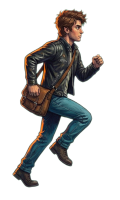
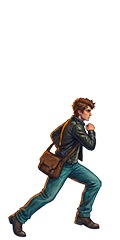
sprite player

diff --git a/globalGameJam/src/main/java/it/gamejam/truncate/bubblenap/ui/img/ImageLoader.java b/globalGameJam/src/main/java/it/gamejam/truncate/bubblenap/ui/img/ImageLoader.java
@@ -39,12 +39,12 @@ public class ImageLoader {
 	private static Image mummyHead;
 	private static Image baseHead;
 
-	private static Image[] player;
-	private static Image[] playerMummy;
-	private static Image[] playerVampire;
-	private static Image[] playerWerewolf;
-	private static Image[] playerZombie;
-	private static Image[] playerBase;
+	private static BufferedImage[] player;
+	private static BufferedImage[] playerMummy;
+	private static BufferedImage[] playerVampire;
+	private static BufferedImage[] playerWerewolf;
+	private static BufferedImage[] playerZombie;
+	private static BufferedImage[] playerBase;
 
 	private static Image[] garbage;
 	private static Image[] manhole;
@@ -105,17 +105,17 @@ public class ImageLoader {
 			vampireTaunting= ImageIO.read(Thread.currentThread().getContextClassLoader().getResource("img/game/enemies/taunting/vampire.png"));
 			mummyTaunting= ImageIO.read(Thread.currentThread().getContextClassLoader().getResource("img/game/enemies/taunting/mummy.png"));
 
-			playerMummy = new Image[FRAMES];
-			playerVampire = new Image[FRAMES];
-			playerWerewolf = new Image[FRAMES];
-			playerZombie = new Image[FRAMES];
-			playerBase = new Image[FRAMES];
+			playerMummy = new BufferedImage[FRAMES];
+			playerVampire = new BufferedImage[FRAMES];
+			playerWerewolf = new BufferedImage[FRAMES];
+			playerZombie = new BufferedImage[FRAMES];
+			playerBase = new BufferedImage[FRAMES];
 
 			for (int i = 1; i <= FRAMES; i++) {
-				playerMummy[i-1] = ImageIO.read(Thread.currentThread().getContextClassLoader().getResource("img/game/Ragazzo/RAGAZZO MUMMIA/MUMMIA-"+i+".png"));
-				playerVampire[i-1] = ImageIO.read(Thread.currentThread().getContextClassLoader().getResource("img/game/Ragazzo/RAGAZZO VAMPIRO/VAMPIRO-"+i+".png"));
-				playerWerewolf[i-1] = ImageIO.read(Thread.currentThread().getContextClassLoader().getResource("img/game/Ragazzo/RAGAZZO LUPO/LUPO-"+i+".png"));
-				playerZombie[i-1] = ImageIO.read(Thread.currentThread().getContextClassLoader().getResource("img/game/Ragazzo/RAGAZZO ZOMBIE/Zombie-"+i+".png"));
+				playerMummy[i-1] = ImageIO.read(Thread.currentThread().getContextClassLoader().getResource("img/game/Ragazzo/RAGAZZO MUMMIA/"+i+".png"));
+				playerVampire[i-1] = ImageIO.read(Thread.currentThread().getContextClassLoader().getResource("img/game/Ragazzo/RAGAZZO VAMPIRO/"+i+".png"));
+				playerWerewolf[i-1] = ImageIO.read(Thread.currentThread().getContextClassLoader().getResource("img/game/Ragazzo/RAGAZZO LUPO/"+i+".png"));
+				playerZombie[i-1] = ImageIO.read(Thread.currentThread().getContextClassLoader().getResource("img/game/Ragazzo/RAGAZZO ZOMBIE/"+i+".png"));
 				playerBase[i-1] = ImageIO.read(Thread.currentThread().getContextClassLoader().getResource("img/game/Ragazzo/BASE/"+i+".png"));
 			}
 

diff --git a/globalGameJam/src/main/java/it/gamejam/truncate/bubblenap/core/MaskedPlayer.java b/globalGameJam/src/main/java/it/gamejam/truncate/bubblenap/core/MaskedPlayer.java
@@ -34,7 +34,7 @@ public class MaskedPlayer {
 		imagesMap.put(MaskType.VAMPIRE, scale(ImageLoader.getPlayerVampire()));
 		imagesMap.put(MaskType.WEREWOLF, scale(ImageLoader.getPlayerWerewolf()));
 		imagesMap.put(MaskType.ZOMBIE, scale(ImageLoader.getPlayerZombie()));
-		imagesMap.put(MaskType.BASE, ImageLoader.getPlayerBase());
+		imagesMap.put(MaskType.BASE, scale(ImageLoader.getPlayerBase()));
 	
 		iconsMap.put(MaskType.MUMMY, ImageLoader.getMummyHead());
 		iconsMap.put(MaskType.VAMPIRE, ImageLoader.getVampireHead());
@@ -53,7 +53,7 @@ public class MaskedPlayer {
 	private Image[] scale(Image[] source) {
 		Image[] toReturn=new Image[source.length];
 		for (int i = 0; i < toReturn.length; i++) {
-			toReturn[i]=source[i].getScaledInstance(120, 220, Image.SCALE_SMOOTH);	
+			toReturn[i]=source[i].getScaledInstance(200, 400, Image.SCALE_SMOOTH);	
 		}
 		return toReturn;
 	}

diff --git a/globalGameJam/src/main/java/it/gamejam/truncate/bubblenap/ui/GamePanel.java b/globalGameJam/src/main/java/it/gamejam/truncate/bubblenap/ui/GamePanel.java
@@ -98,7 +98,7 @@ public class GamePanel extends JPanel implements Repaintable {
 			}
 		});
 
-		g.drawImage(player.getScaledImage((int)((timeMillis / 200) % player.getImageCount())), player.getX(), player.getY(), null);
+		g.drawImage(player.getScaledImage((int)((timeMillis / 100) % player.getImageCount())), player.getX(), player.getY(), null);
 
 
 		//ansia che aumenta

diff --git a/globalGameJam/src/main/java/it/gamejam/truncate/bubblenap/core/GameManager.java b/globalGameJam/src/main/java/it/gamejam/truncate/bubblenap/core/GameManager.java
@@ -40,7 +40,7 @@ public class GameManager {
 	private JDialog webcamDialog;
 
 	public GameManager() {
-		setMaskedPlayer(new MaskedPlayer( 100, 450));
+		setMaskedPlayer(new MaskedPlayer( 100, 300));
 		try {
 			enemyFactory = new EnemyFactory();
 			staticObjectFactory = new StaticObjectFactory();
